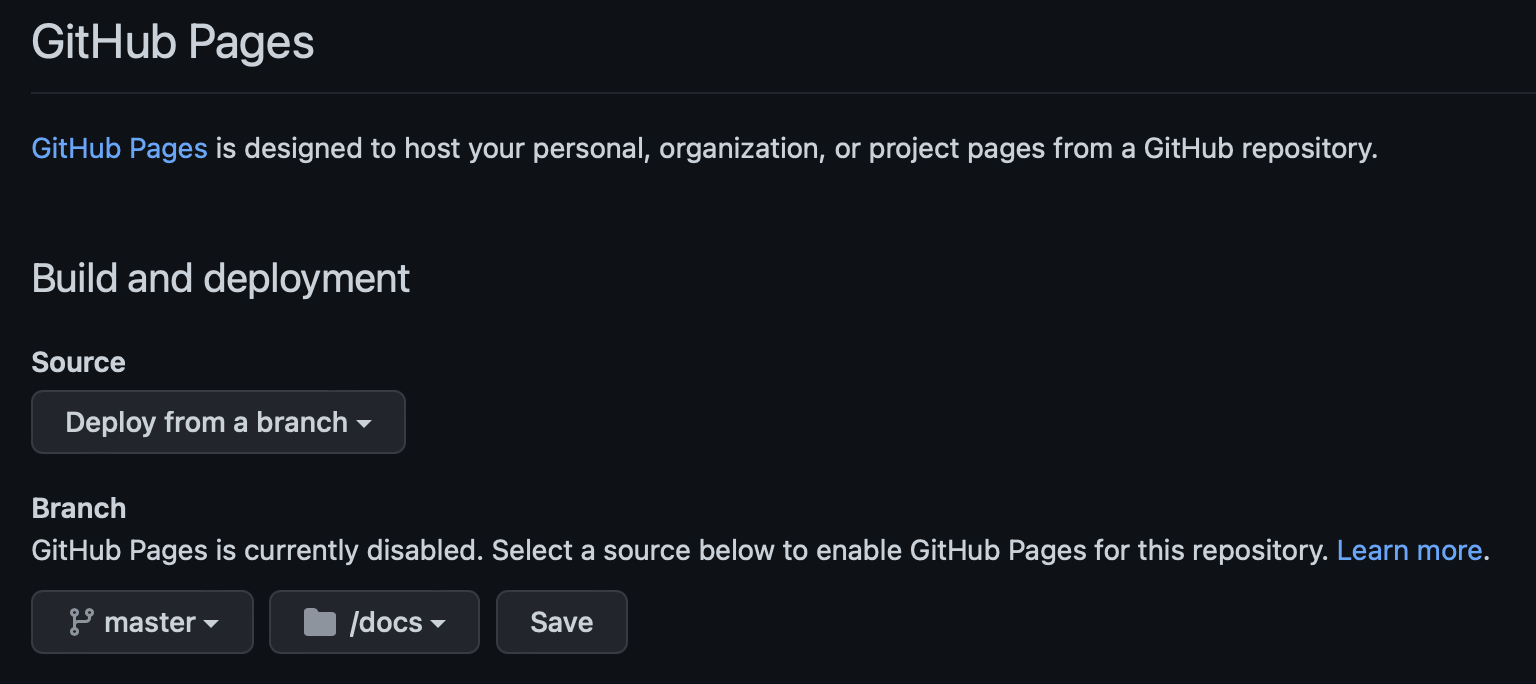
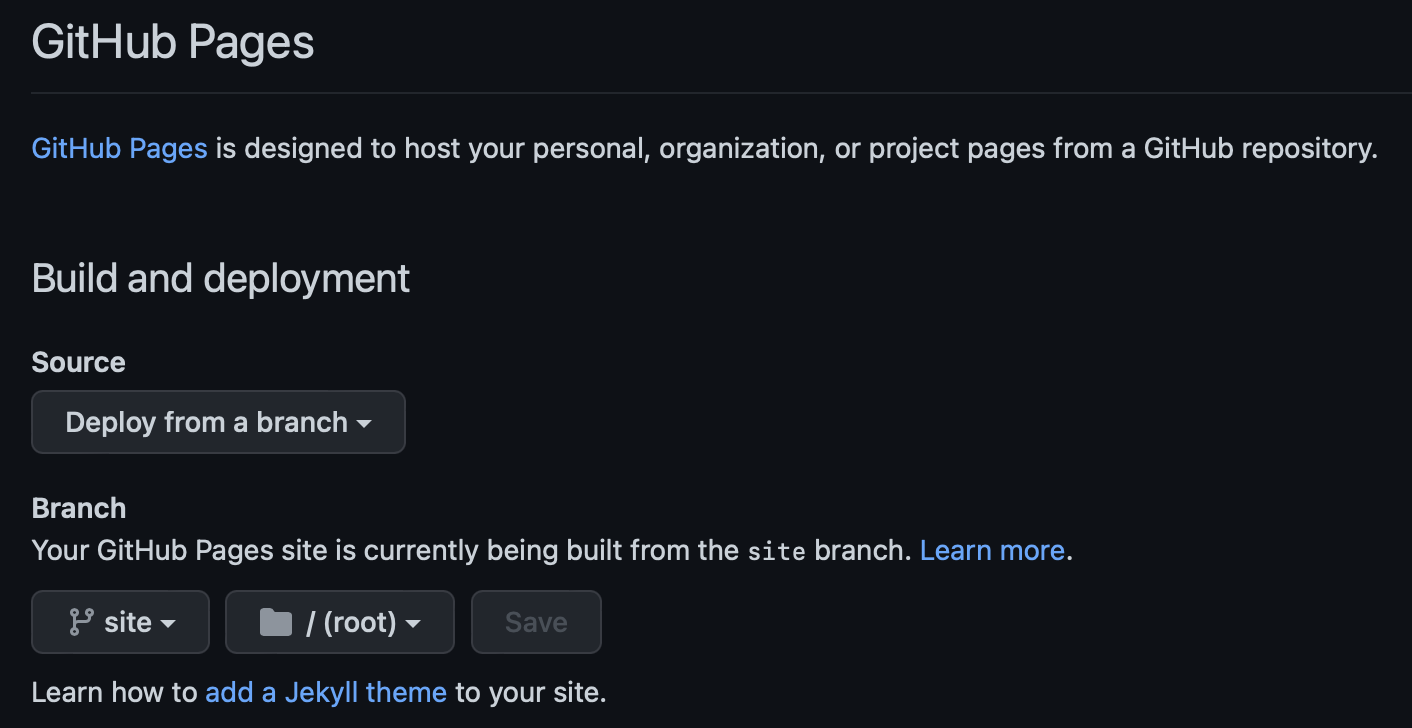
WIP commit

diff --git a/README.md b/README.md
@@ -21,11 +21,13 @@ The basic idea is to have one GitHub repository containing two branches, one hos
 
 You'll build the site locally, based on the files in the `master` branch, and then commit the finally built static site to the `site` branch, where they will be - once configured - automatically published by GitHub Pages' *build and deploy* workflow. You may also push these built files to any other webserver, but I'll focus on the GitHub Pages path in this guide.
 
-## Step 1: Create a new GitHub repository
+## Part I: Create your GitHub Pages site
+
+### Step 1: Create a new GitHub repository
 
 Create a new GitHub repository. This will normally leave you with a `main` branch. Rename this to `master` and clone it to your computer (or keep it, but then replace all the `master` instructions below with `main`).
 
-## Step 2: Create a folder for your sources
+### Step 2: Create a folder for your sources
 
 Navigate to your local repository (you're in the master branch) and create the `/docs` folder.
 
@@ -35,7 +37,7 @@ mkdir docs
 cd docs
 ```
 
-## Step 3: Create a new Jekyll site
+### Step 3: Create a new Jekyll site
 
 We will use the created folder as publishing source and create a new Jekyll site there.
 
@@ -53,18 +55,49 @@ You can optionally preview your site on [http://localhost:4000](http://localhost
 
 Finally build your site using `bundle exec jekyll build`. This will create a `_site` folder, which should already be listed in your `.gitignore` file. If not, do so.
 
-## Step XXX: Checkout a new orphan branch to host your built site
+### Step 4: Commit your sources to your GitHub repository
 
-Navigate to your local repository (you're in the master branch), checkout a new *orphan* branch *sources*, and let git remove all its contents:
+To do so, move to the root directory of your local git repository, add and commit the newly created files (including the `/docs` folder and ignoring the `/docs/_site` folder), and push everything to your remote repository on GitHub.
 
 ```
-cd /path/to/your/repository
-git checkout --orphan site
-git rm -rf .
+cd ..
+git add -A
+git commit -m "Initial commit"
+git push
 ```
 
-## Step XXX: Configure GitHub to the right publishing source
+Your source files should now be in your GitHub repository. It's time to take care of the generated site files.
 
-Now it's time to configure GitHub Pages to deploy your site. Go to the settings of your repository, choose *Pages* from the menu, and set the build and deployment source to *Deploy from a branch*, then select your `site` branch and the `/docs` folder.
+### Step 5: Create a new local repository for your site files
+
+Navigate to your `/docs/_site` folder and initialize a new repository with the same remote as above.
+
+```
+cd docs/_site/
+git init .
+git remote add origin https://github.com/<your-username>/<your-repo-name>
+```
+
+As we want our files to be pushed to a separate branch `site`, we need to create this branch using `git branch site`.
+
+### Step 6: Prepare your site files and push them to your remote repository
+
+Before we push our site files, we need to create one new, empty file named `.nojekyll`. It makes sure that GitHub Pages does not process the site files, but deploys them as they come.
+
+`touch .nojekyll`
+
+Now add, commit and push all site files to your remote repository. As the branch does not exist yet remotely, we need to set the upstream, using the `-u` option.
+
+```
+git add -A
+git commit -m "Initial commit"
+git push -u origin site
+```
+
+Your site files should now reside in the `site` branch in your GitHub repository.
+
+### Step 7: Configure GitHub to the right publishing source
+
+The final step is to configure GitHub Pages to deploy your site. Go to the settings of your repository, choose *Pages* from the menu, and set the build and deployment source to *Deploy from a branch*, then select your `site` branch and keep the `/(root)` folder. Hit save, wait a minute or so (you can always check the deployment progress in the "Actions" tab of your repository), and then check your online site by hitting the "Visit site" button.
 
 ![Configure your publishing source](/images/github_pages_config.png)
